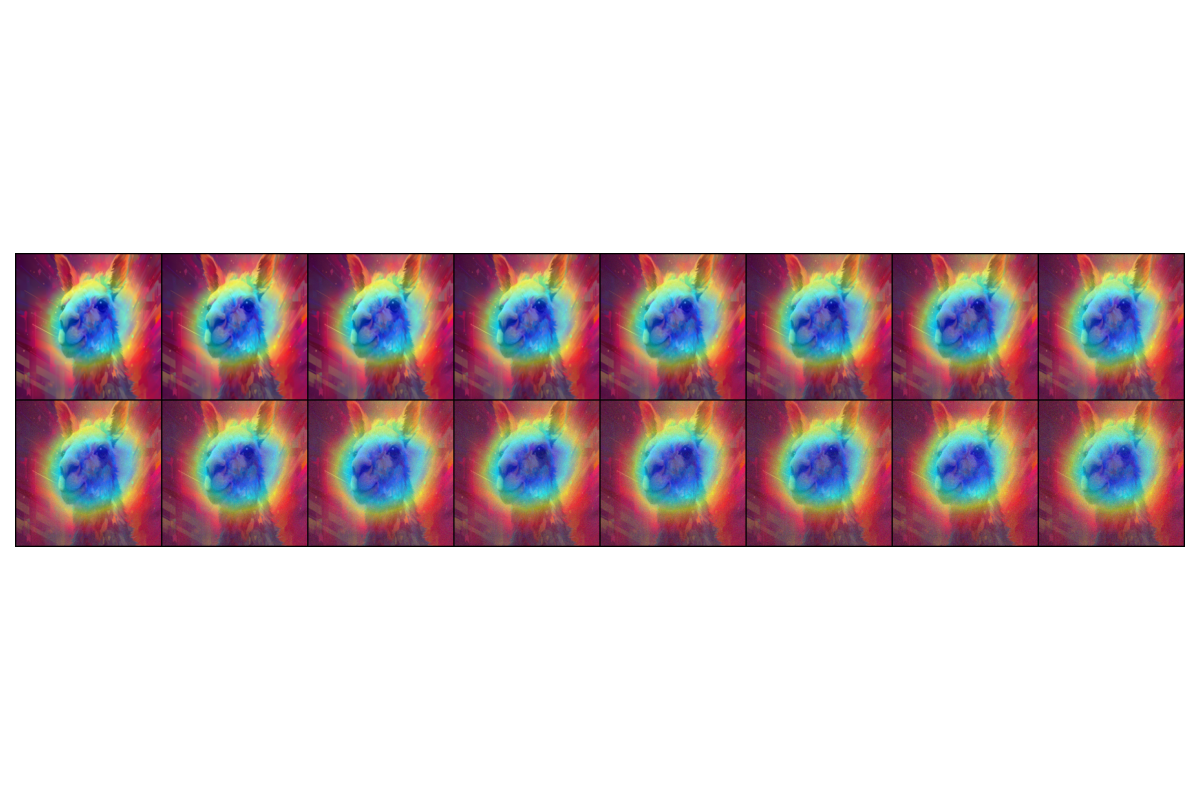
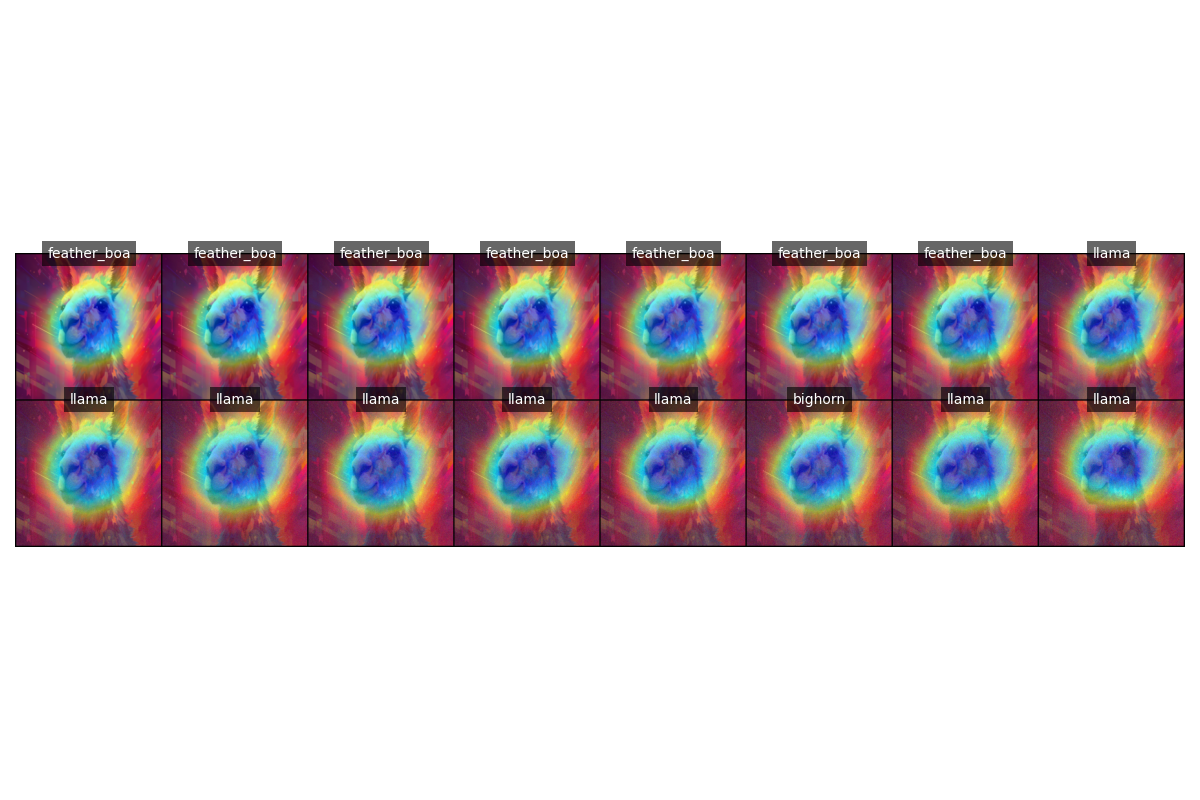
Finished GradCAM explanations pipeline for classifiers

diff --git a/src/gradcam_explanations.py b/src/gradcam_explanations.py
@@ -40,7 +40,8 @@ def gradcam_explanations_classifier_series(
     class_label_imagenet: str = "chain_saw",
     target_layers: List[Union[nn.Sequential, nn.Module]] = None,
     method: str = "GradCAM",
-) -> torch.Tensor:
+    predicted_labels: bool = False,
+) -> Union[torch.Tensor, List[str]]:
     """
     Produces GradCAM explanations for a series of perturbed images of a given ImageNet class.
 
@@ -85,5 +86,12 @@ def gradcam_explanations_classifier_series(
         imgs_overlay_cam = torch.tensor(
             np.array([show_cam_on_image(img, cam) for img, cam in zip(imgs_normalized, grayscale_cam)])
         )
+        
+        # Return predicted labels if requested
+        if predicted_labels:
+            predictions = cam.outputs.argmax(dim=1).to(torch.int32)
+            pred_labels = [IDX_TO_CLASS_IMAGENET[idx.item()] for idx in predictions]    
+            
+            return imgs_overlay_cam, pred_labels
 
     return imgs_overlay_cam

diff --git a/scripts/main01.py b/scripts/main01.py
@@ -32,15 +32,16 @@ def main():
     # Target layers for Grad-CAM
     target_layers = [model.layer4[-1]]
     
-    img_overlay_cam = gradcam_explanations_classifier_series(
+    img_overlay_cam, pred_labels  = gradcam_explanations_classifier_series(
         model=model,
         perturbed_images=noisy_images,
         class_label_imagenet=class_label,
         target_layers=target_layers,
         method="GradCAM",
+        predicted_labels=True,
     )
     
-    show_images(img_overlay_cam, save_fig=True, filename="gradcam_llama.png")
+    show_images(img_overlay_cam, labels=pred_labels, save_fig=True, filename="gradcam_llama.png")
 
 if __name__ == "__main__":
     main()
